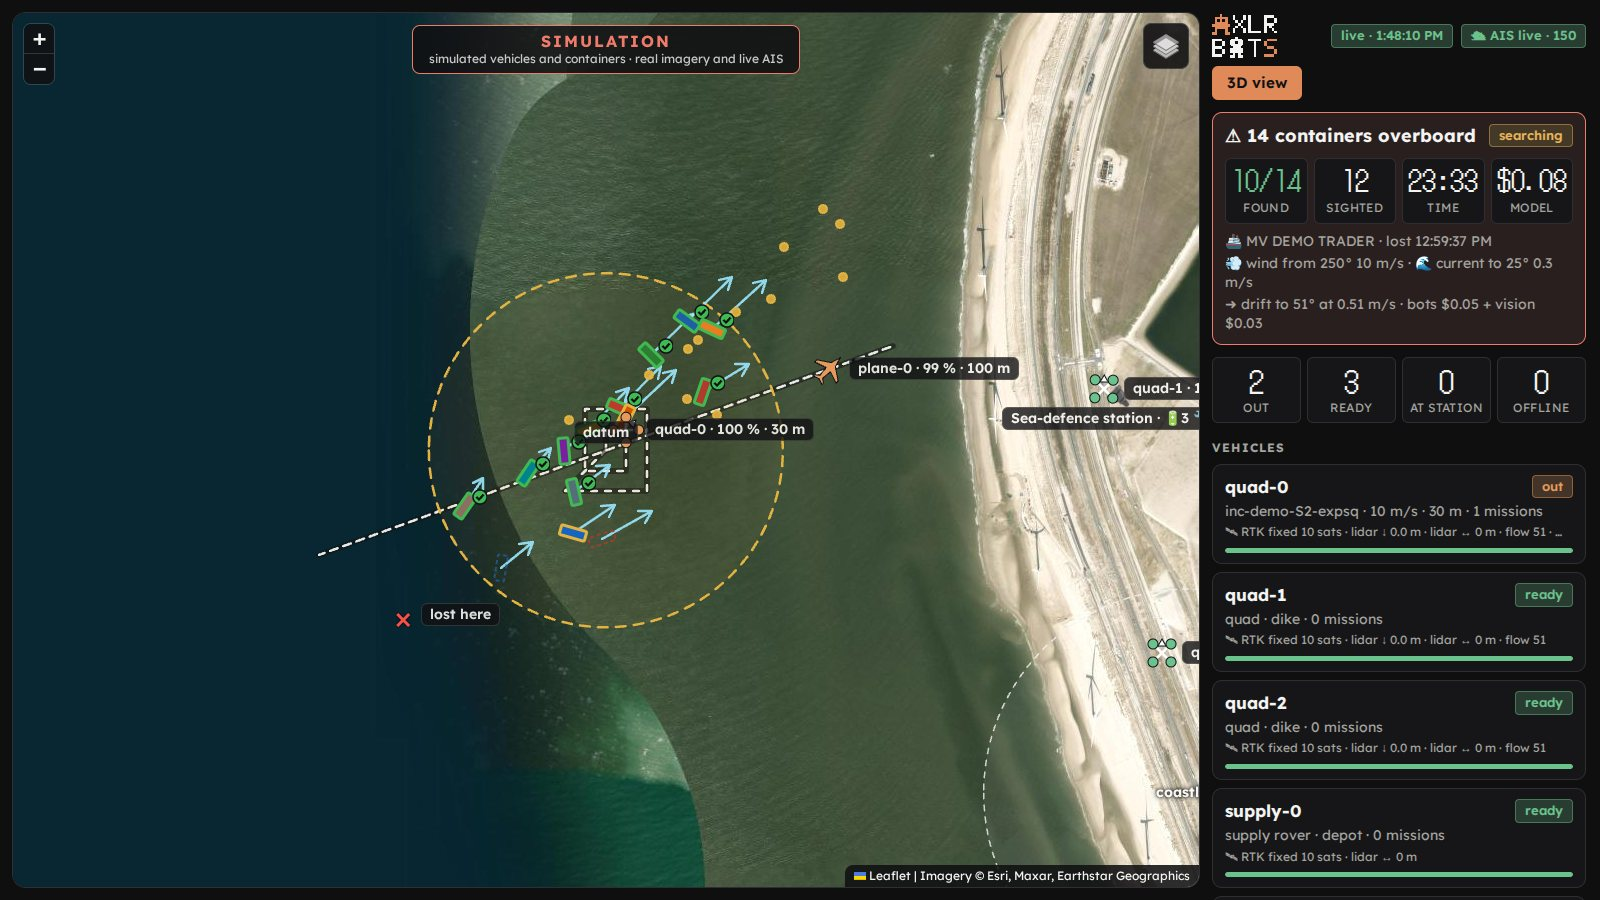
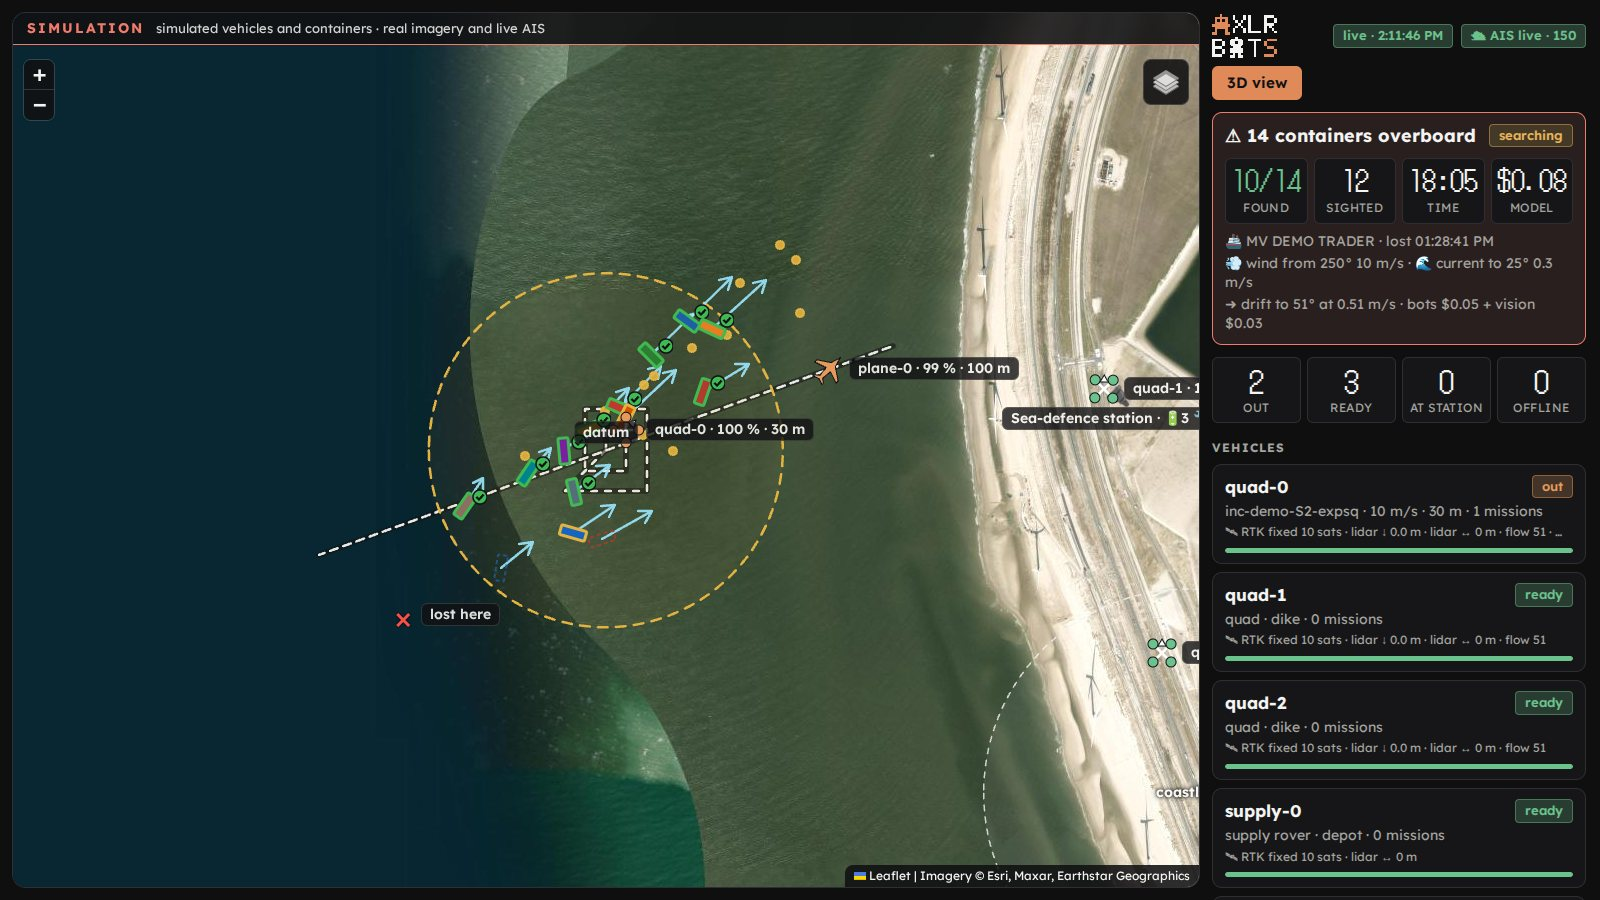
Make the SIMULATION label a thin ribbon across the top of the viewer, on the three pages, with the map's controls and the compass under it

diff --git a/examples/drone-fleet/app/static/theme.css b/examples/drone-fleet/app/static/theme.css
@@ -95,10 +95,13 @@ body.nohud .viewer { margin: 0; border-radius: 0; border: 0; }
 
 /* what floats over the viewer: a light glass box, dark text */
 .hud { background: var(--hud); color: var(--hud-text); border: 1px solid var(--hud-line); border-radius: 8px; backdrop-filter: blur(6px); -webkit-backdrop-filter: blur(6px); }
-.sim { position: absolute; top: 12px; left: 50%; transform: translateX(-50%); z-index: 1000; pointer-events: none; text-align: center; white-space: nowrap;
-  background: var(--hud); color: var(--sim); border: 1px solid var(--sim); border-radius: 8px; padding: 6px 16px; font: 700 16px/1.2 var(--font); letter-spacing: .12em; }
-.sim small { display: block; font: 500 12px/1.3 var(--font); letter-spacing: 0; color: var(--hud-text); opacity: .8; }
-.counter { position: absolute; top: 60px; left: 50%; transform: translateX(-50%); z-index: 1000; pointer-events: none; white-space: nowrap;
+/* the SIMULATION ribbon: a thin band across the top of the viewer, on every page, never over the map's content */
+.sim { position: absolute; top: 0; left: 0; right: 0; z-index: 1000; pointer-events: none; display: flex; align-items: center; gap: 12px; flex-wrap: wrap;
+  background: var(--hud); color: var(--sim); border-bottom: 1px solid var(--sim); padding: 7px 14px; font: 700 14px/1.2 var(--font); letter-spacing: .14em;
+  backdrop-filter: blur(6px); -webkit-backdrop-filter: blur(6px); }
+.sim small { font: 500 13px/1.3 var(--font); letter-spacing: 0; color: var(--hud-text); opacity: .85; }
+.leaflet-top { top: 36px; }
+.counter { position: absolute; top: 48px; left: 50%; transform: translateX(-50%); z-index: 1000; pointer-events: none; white-space: nowrap;
   background: var(--hud); color: var(--hud-text); border: 1px solid var(--bad); border-radius: 8px; padding: 6px 16px; font: 400 22px/1.2 var(--num); font-variant-numeric: tabular-nums; }
 .counter[hidden] { display: none; }
 .counter.ended { border-color: var(--ok); }
@@ -107,7 +110,7 @@ body.nohud .viewer { margin: 0; border-radius: 0; border: 0; }
 .counter .w { font: 600 15px/1.2 var(--font); }
 .attrib { position: absolute; right: 0; bottom: 0; z-index: 1000; font: 12px/1.4 var(--font); color: var(--hud-text); background: var(--hud); padding: 3px 9px; border-top-left-radius: 8px; }
 .attrib a { color: var(--hud-text); }
-@media (max-width: 700px) { .sim { white-space: normal; width: 88%; font-size: 14px; } .counter { font-size: 17px; top: 64px; } }
+@media (max-width: 700px) { .sim { font-size: 13px; padding: 6px 10px; gap: 8px; } .sim small { font-size: 12px; } .counter { font-size: 17px; top: 64px; } }
 
 /* Leaflet in this theme */
 .leaflet-container { background: #0d1117; font-family: var(--font); }

diff --git a/examples/drone-fleet/app/static/3d.html b/examples/drone-fleet/app/static/3d.html
@@ -41,7 +41,7 @@
   #loading { position: absolute; inset: 0; display: flex; align-items: center; justify-content: center; font-size: 22px; font-weight: 700; color: #fff;
     background: rgba(13, 17, 23, .7); pointer-events: none; }
   #hint { position: absolute; left: 12px; bottom: 12px; padding: 5px 11px; font-size: 13px; pointer-events: none; }
-  #compass { position: absolute; top: 12px; left: 12px; width: 56px; height: 56px; border-radius: 50%; display: flex; align-items: center; justify-content: center; pointer-events: none; }
+  #compass { position: absolute; top: 48px; left: 12px; width: 56px; height: 56px; border-radius: 50%; display: flex; align-items: center; justify-content: center; pointer-events: none; }
   #compass svg { width: 46px; height: 46px; }
   #incident .inc { margin-top: 4px; }
   #incident .inc .big b { font-size: 24px; }

diff --git a/examples/drone-fleet/app/static/m.html b/examples/drone-fleet/app/static/m.html
@@ -12,7 +12,7 @@
 <style>
   html, body { font-size: 18px; }
   body { padding: 12px 12px calc(24px + env(safe-area-inset-bottom)); max-width: 560px; margin: 0 auto; }
-  .sim { position: static; transform: none; display: block; width: 100%; white-space: normal; margin-bottom: 12px; }
+  .sim { position: static; border: 1px solid var(--sim); border-radius: 8px; margin-bottom: 12px; }
   header { display: flex; align-items: center; gap: 10px; margin: 0 0 10px; }
   header .brand { flex: 1; }
   header .brand img { height: 48px; }
